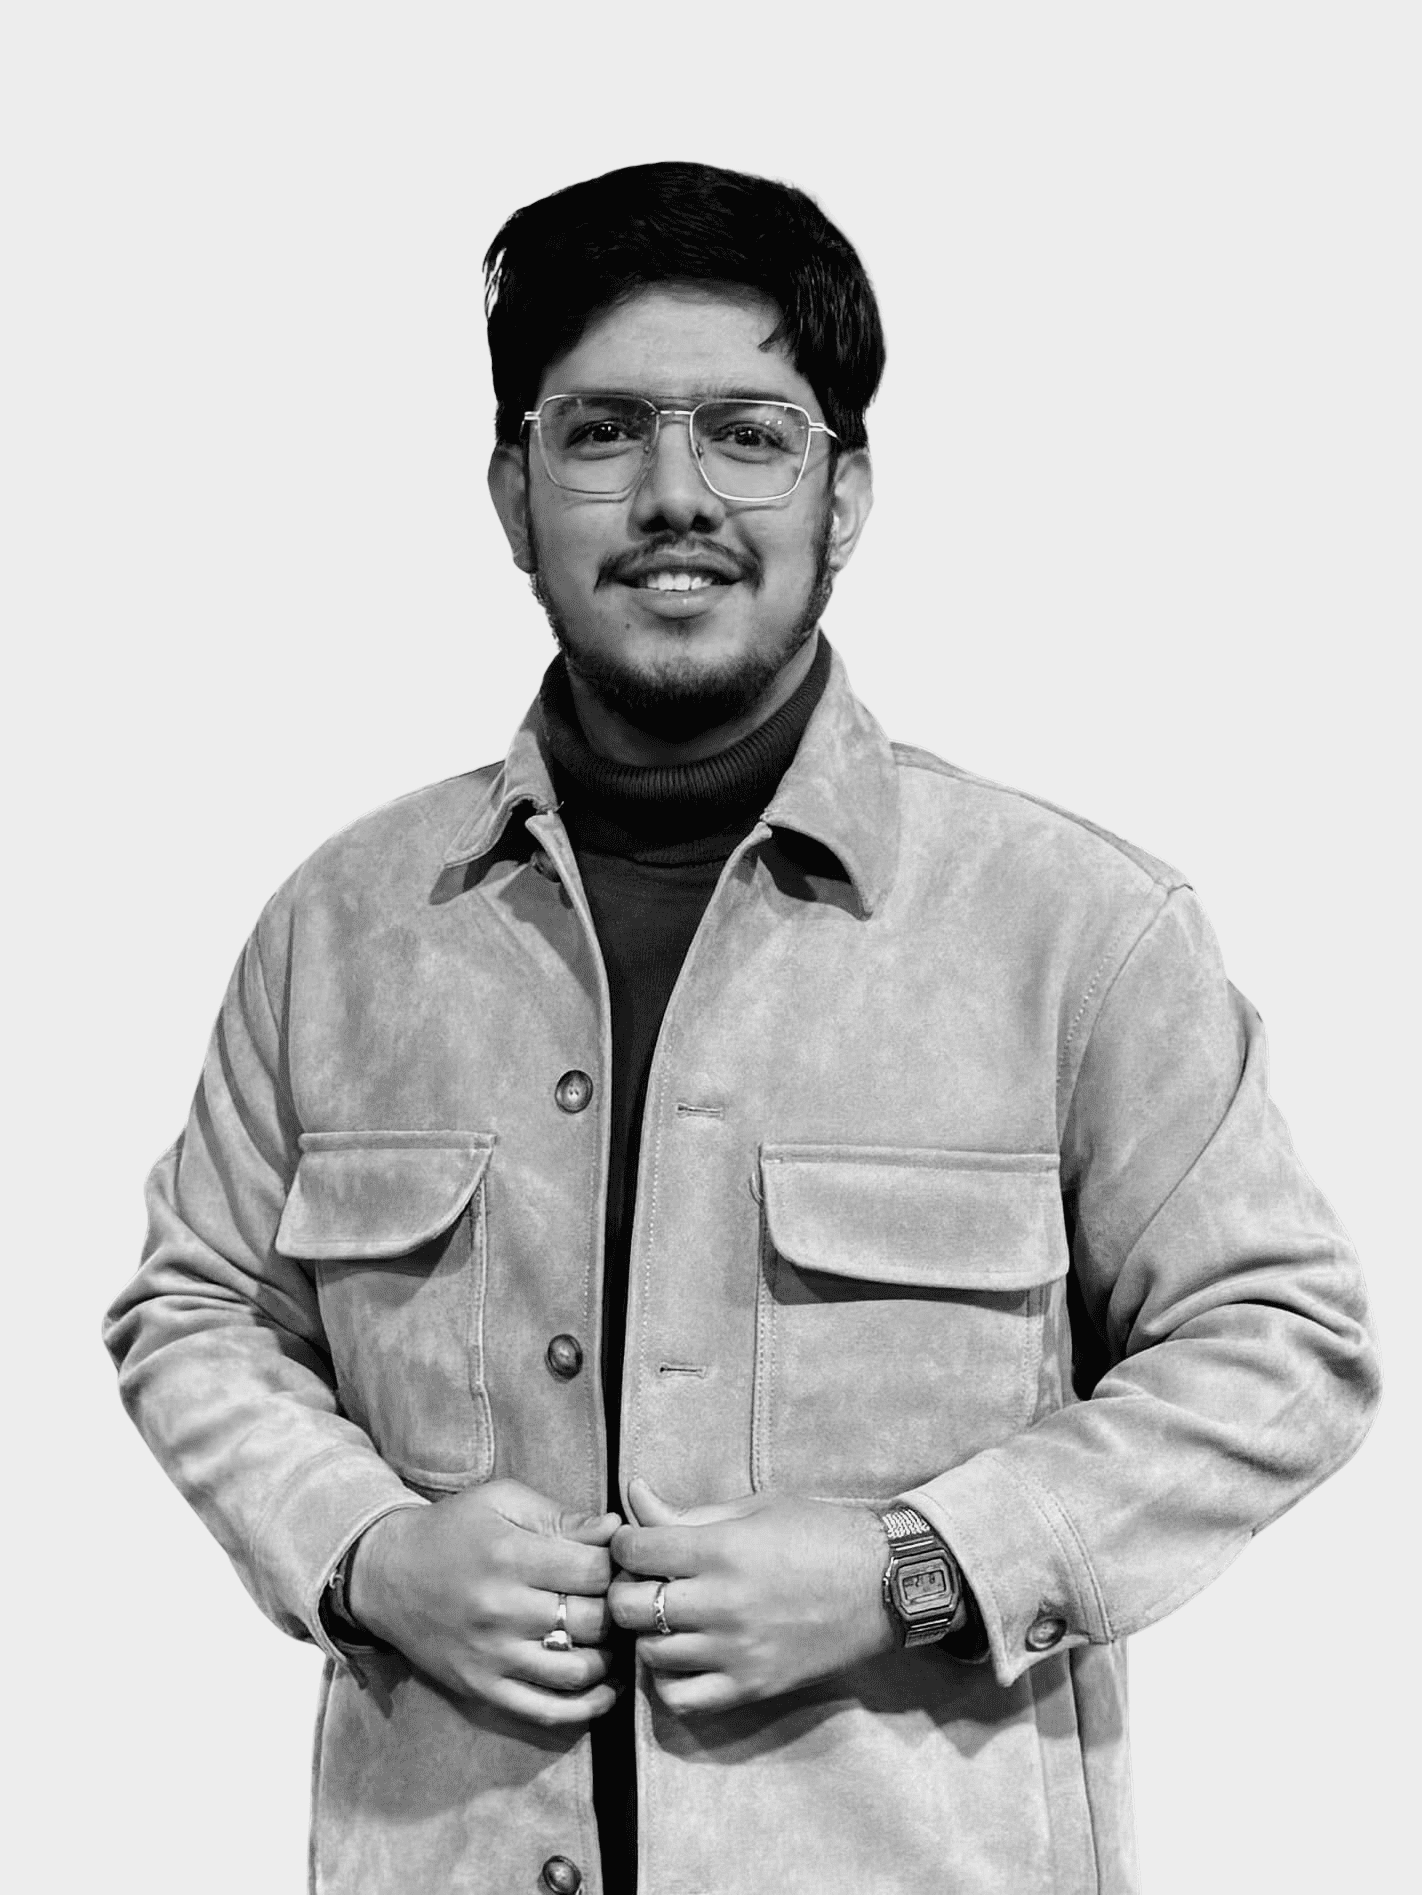
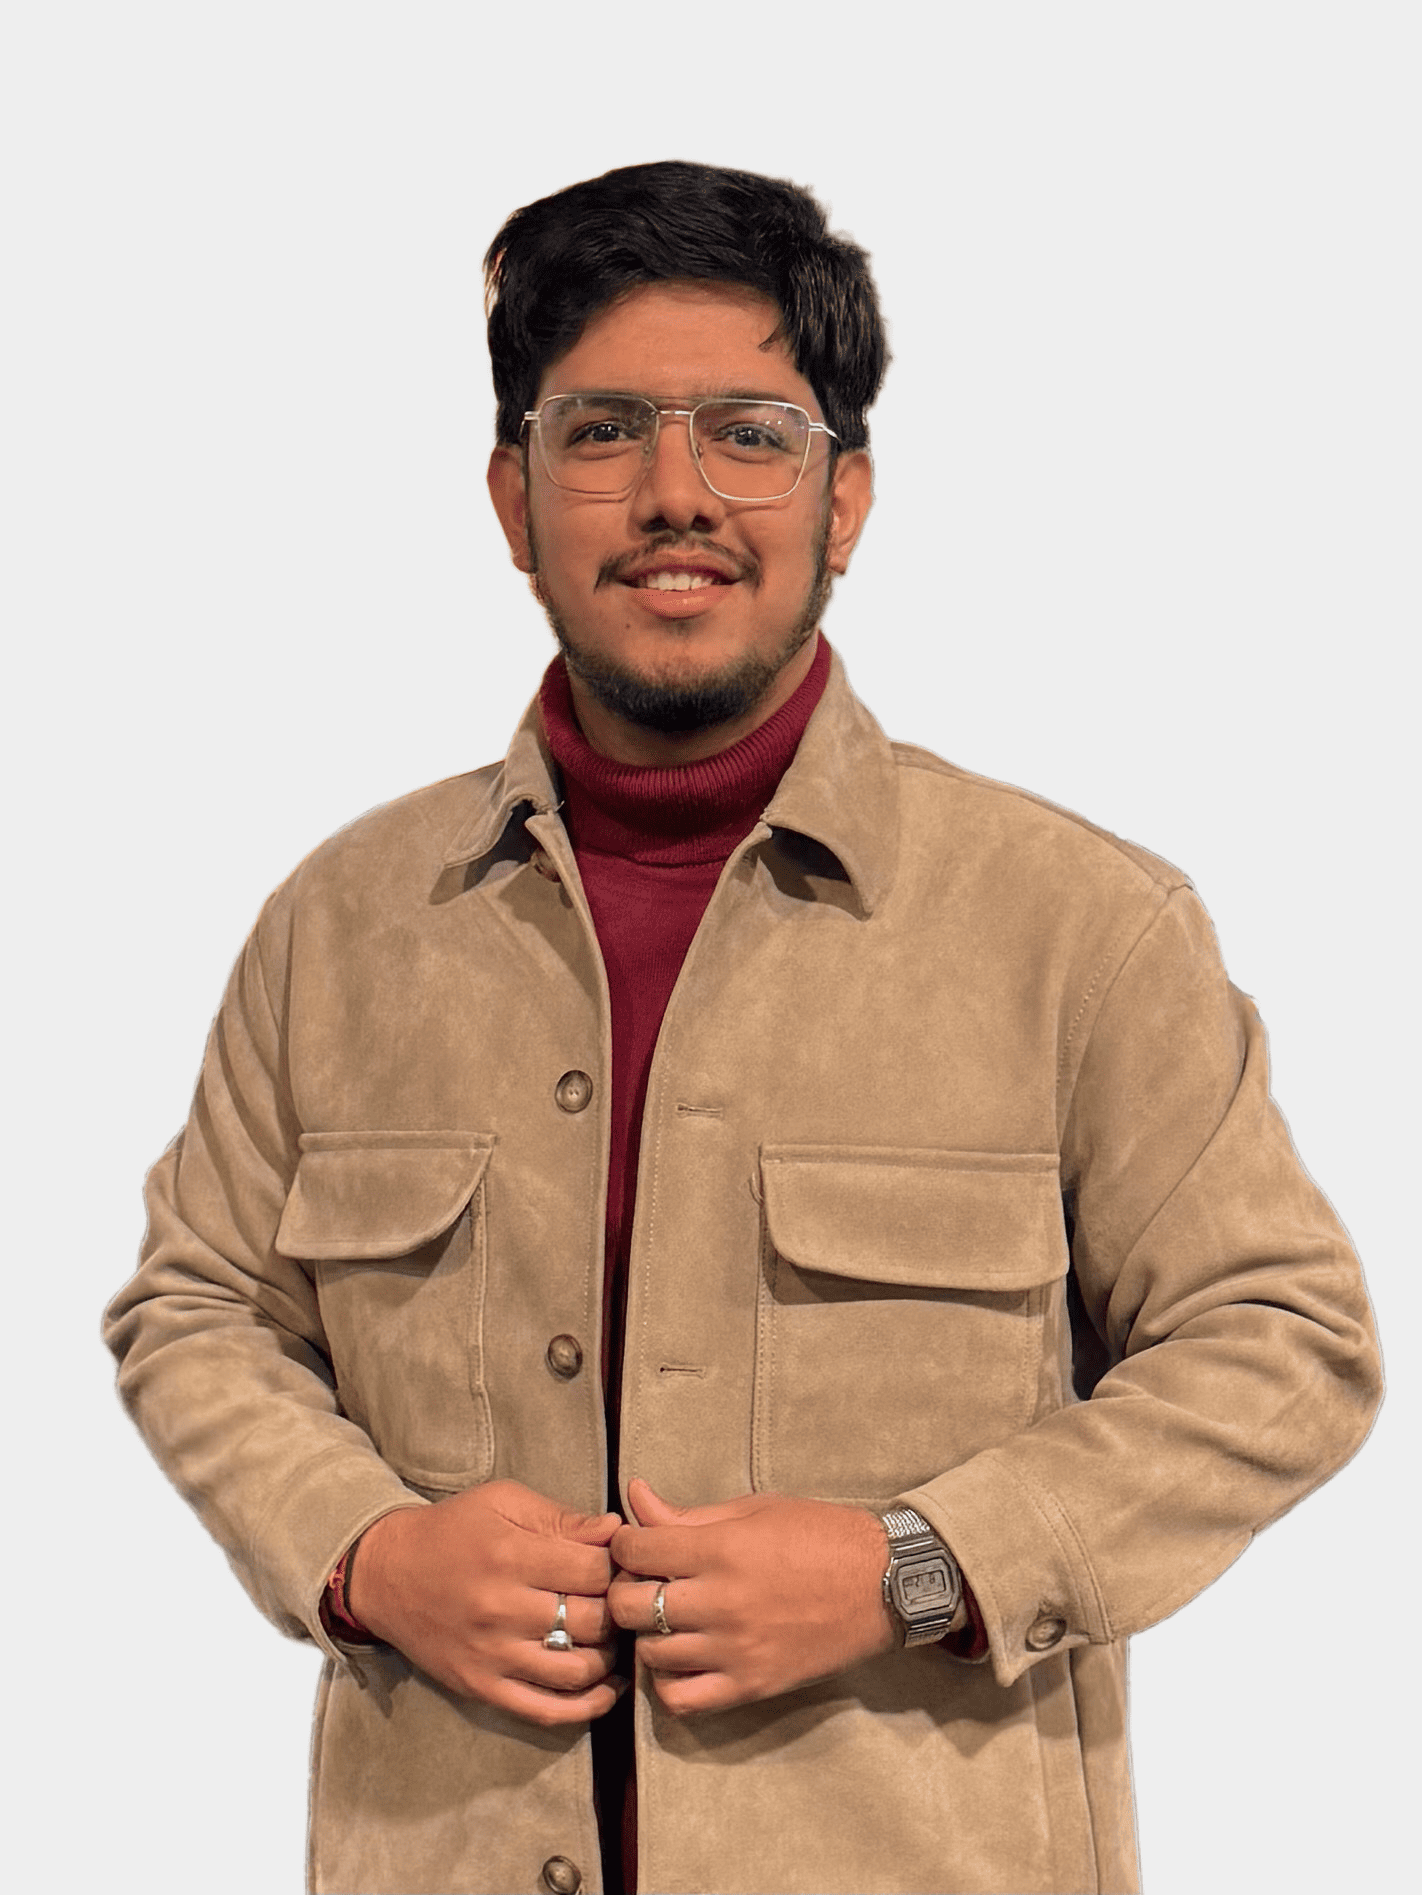
feat: added animation and updated hero image

diff --git a/app/globals.css b/app/globals.css
@@ -65,3 +65,75 @@ body {
 .video-link:hover span {
   display: flex;
 }
+
+.bling {
+  width: 15px;
+  height: 15px;
+  position: absolute;
+  transform: rotate(0deg);
+  filter: blur(0.5px);
+  opacity: 0;
+  animation: blingEffect 10s ease-in-out infinite;
+}
+@keyframes blingEffect {
+  0% {
+    opacity: 0;
+    transform: rotate(0deg) scale(0.8);
+  }
+  50% {
+    opacity: 1;
+    transform: rotate(180deg) scale(1);
+  }
+  100% {
+    opacity: 0;
+    transform: rotate(360deg) scale(0.8);
+  }
+}
+
+.bling:before,
+.bling:after {
+  content: "";
+  position: absolute;
+}
+.bling:before {
+  width: 1px;
+  height: 100%;
+  left: 7px;
+  background: linear-gradient(
+    to bottom,
+    transparent,
+    rgba(255, 255, 255, 0.7),
+    transparent
+  );
+}
+
+.bling:after {
+  width: 100%;
+  height: 1px;
+  top: 7px;
+  background: linear-gradient(
+    to left,
+    transparent,
+    rgba(255, 255, 255, 0.7),
+    transparent
+  );
+}
+
+.bling-top {
+  top: -7px;
+  right: 3px;
+}
+
+.bling-bottom {
+  width: 12px;
+  height: 12px;
+  bottom: 15px;
+  left: 2px;
+}
+.bling-bottom:after {
+  top: 6px;
+}
+
+.bling-bottom:before {
+  left: 6px;
+}

diff --git a/app/_components/home/projects.tsx b/app/_components/home/projects.tsx
@@ -21,7 +21,7 @@ function Projects() {
         <div className="md:w-1/2 sub-section">
           <Window title="my.project">
             <VideoInDetail
-              href="https://specscart.co.uk/"
+              href="https://specscart.co.uk/glasses-collections/luxury-glasses"
               desc="Took on the challenge of developing a webpage for the
                 organization that exudes a sense of luxury, contributing to the
                 increase in sales of high-end products."

diff --git a/app/_components/home/hero-section.tsx b/app/_components/home/hero-section.tsx
@@ -17,7 +17,7 @@ function HeroSection() {
               height={380}
               width={285}
               src="/images/itsme.png"
-              sizes="(min-width: 1040px) 285px, (min-width: 780px) 234px, (min-width: 380px) 285px, calc(71.67vw + 27px)"
+              sizes="(min-width: 1040px) 285px, (min-width: 780px) 239px, (min-width: 400px) 285px, calc(33.75vw + 157px)"
             />
           </div>
           <div className="md:w-2/3 text-center md:text-start">

diff --git a/app/_ui/skill-badge.tsx b/app/_ui/skill-badge.tsx
@@ -13,7 +13,9 @@ function SkillBadge({
   className,
 }: Readonly<SkillBadgeProps>) {
   return (
-    <div className="flex flex-col items-center gap-1">
+    <div className="flex flex-col items-center gap-1 relative">
+      <span className="bling bling-top"></span>
+      <span className="bling bling-bottom"></span>
       <Icon className={className} title={title} />
       <p className="text-tBaseSecondary text-xs font-bold">{title}</p>
     </div>
